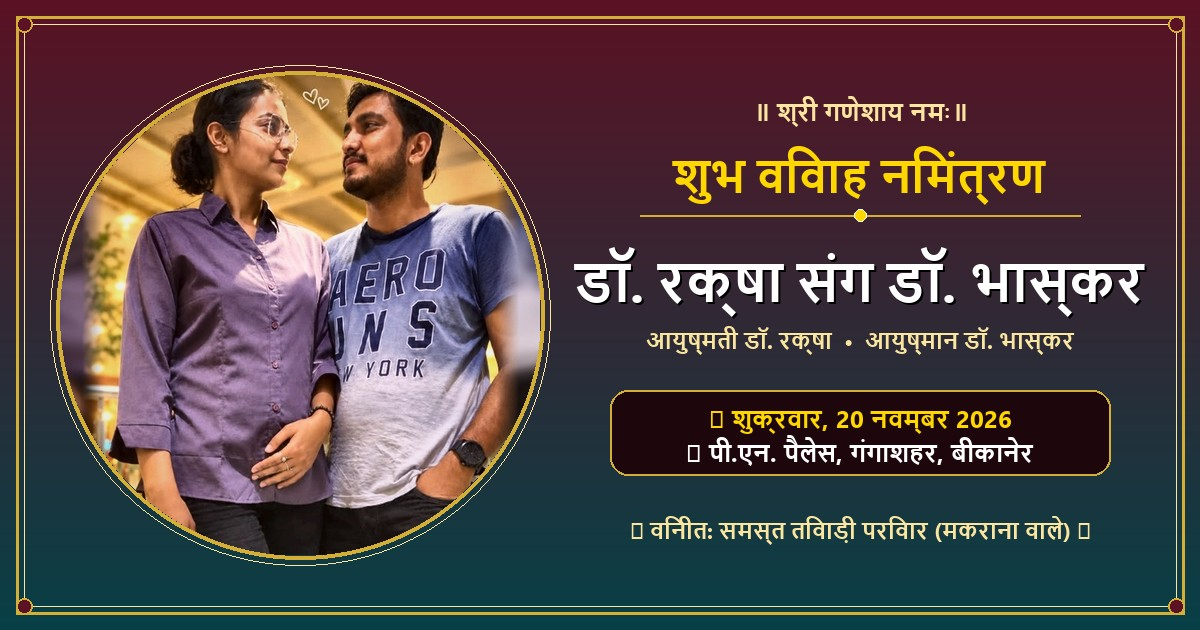
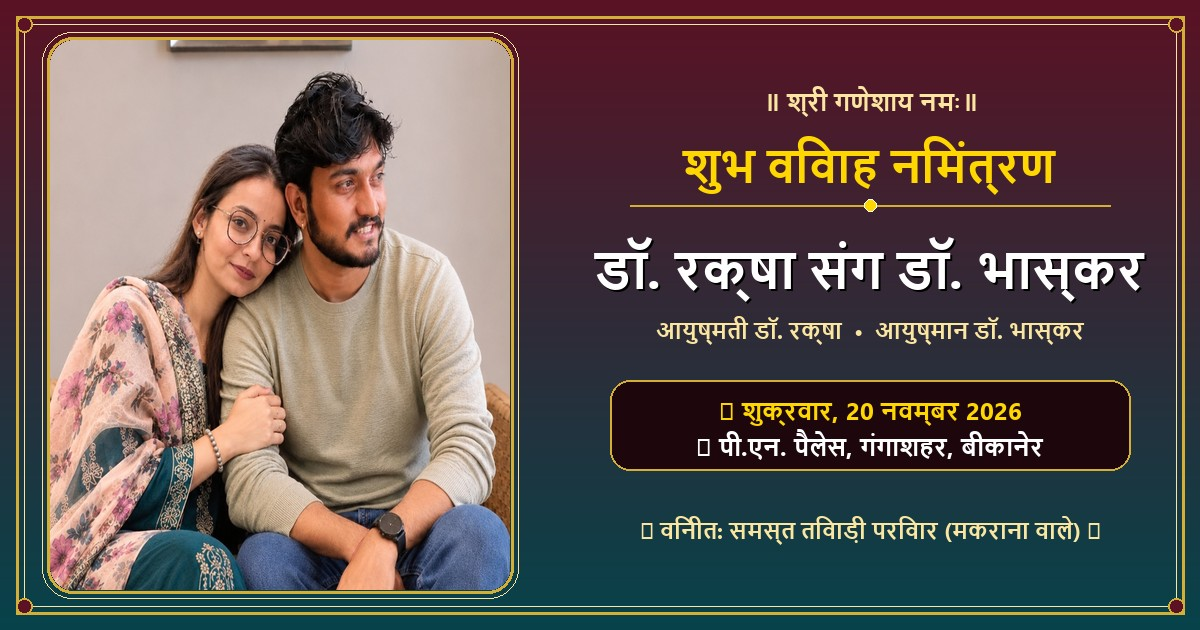
Use new authentic couple portrait in card and WhatsApp rich preview

diff --git a/index.html b/index.html
@@ -14,29 +14,29 @@
   <meta property="og:site_name" content="मंगल परिणयोत्सव • डॉ. रक्षा संग डॉ. भास्कर">
   <meta property="og:title" content="॥ शुभ विवाह निमंत्रण ॥ डॉ. रक्षा संग डॉ. भास्कर">
   <meta property="og:description" content="श्री विनायक जी महाराज की कृपा से डॉ. रक्षा संग डॉ. भास्कर के मंगल परिणयोत्सव का स्नेहिल निमंत्रण | 20 नवम्बर 2026 • पी.एन. पैलेस, गंगाशहर, बीकानेर।">
-  <meta property="og:image" content="https://rakshwedsbhaskar0.vercel.app/whatsapp_preview.jpg">
-  <meta property="og:image:secure_url" content="https://rakshwedsbhaskar0.vercel.app/whatsapp_preview.jpg">
+  <meta property="og:image" content="https://rakshwedsbhaskar0.vercel.app/whatsapp_preview.jpg?v=3">
+  <meta property="og:image:secure_url" content="https://rakshwedsbhaskar0.vercel.app/whatsapp_preview.jpg?v=3">
   <meta property="og:image:type" content="image/jpeg">
   <meta property="og:image:width" content="1200">
   <meta property="og:image:height" content="630">
   <meta property="og:image:alt" content="शुभ विवाह निमंत्रण - डॉ. रक्षा संग डॉ. भास्कर">
 
   <!-- Secondary square image for WhatsApp mobile chat preview -->
-  <meta property="og:image" content="https://rakshwedsbhaskar0.vercel.app/whatsapp_square.jpg">
-  <meta property="og:image:secure_url" content="https://rakshwedsbhaskar0.vercel.app/whatsapp_square.jpg">
+  <meta property="og:image" content="https://rakshwedsbhaskar0.vercel.app/whatsapp_square.jpg?v=3">
+  <meta property="og:image:secure_url" content="https://rakshwedsbhaskar0.vercel.app/whatsapp_square.jpg?v=3">
   <meta property="og:image:type" content="image/jpeg">
   <meta property="og:image:width" content="500">
   <meta property="og:image:height" content="500">
 
-  <link rel="apple-touch-icon" href="https://rakshwedsbhaskar0.vercel.app/whatsapp_square.jpg">
-  <link rel="icon" type="image/jpeg" href="https://rakshwedsbhaskar0.vercel.app/whatsapp_square.jpg">
+  <link rel="apple-touch-icon" href="https://rakshwedsbhaskar0.vercel.app/whatsapp_square.jpg?v=3">
+  <link rel="icon" type="image/jpeg" href="https://rakshwedsbhaskar0.vercel.app/whatsapp_square.jpg?v=3">
 
   <meta name="twitter:card" content="summary_large_image">
   <meta name="twitter:title" content="॥ शुभ विवाह निमंत्रण ॥ डॉ. रक्षा संग डॉ. भास्कर">
   <meta name="twitter:description" content="डॉ. रक्षा संग डॉ. भास्कर के मंगल परिणयोत्सव का स्नेहिल निमंत्रण | 20 नवम्बर 2026 • पी.एन. पैलेस, गंगाशहर, बीकानेर।">
-  <meta name="twitter:image" content="https://rakshwedsbhaskar0.vercel.app/whatsapp_preview.jpg">
+  <meta name="twitter:image" content="https://rakshwedsbhaskar0.vercel.app/whatsapp_preview.jpg?v=3">
 
-  <link rel="image_src" href="https://rakshwedsbhaskar0.vercel.app/whatsapp_preview.jpg">
+  <link rel="image_src" href="https://rakshwedsbhaskar0.vercel.app/whatsapp_preview.jpg?v=3">
 
   <!-- Google Fonts: Luxury Palace Serif, Devanagari & Modern Display -->
   <link rel="preconnect" href="https://fonts.googleapis.com">
@@ -1227,17 +1227,17 @@
       width: 100%;
       height: 100%;
       object-fit: cover;
-      object-position: center 25%;
+      object-position: center 30%;
       display: block;
       transition: transform 8s ease;
     }
 
     @media (max-width: 600px) {
       .palace-art-container {
-        height: 380px;
+        height: 420px;
       }
       .palace-art-container img {
-        object-position: center 20%;
+        object-position: center 22%;
       }
     }
 
@@ -2204,7 +2204,7 @@
       
       <!-- Palace Artwork Viewport -->
       <div class="palace-art-container">
-        <img src="real_couple_prewedding_card.jpg" alt="डॉ. रक्षा एवं डॉ. भास्कर - शाही परिणय">
+        <img src="real_couple_portrait_card.jpg" alt="डॉ. रक्षा एवं डॉ. भास्कर - शाही परिणय">
         <div class="palace-art-veil"></div>
         <div class="palace-art-caption-box">
           <div class="palace-caption-head">शाही आभा एवं पावन परिणय</div>
